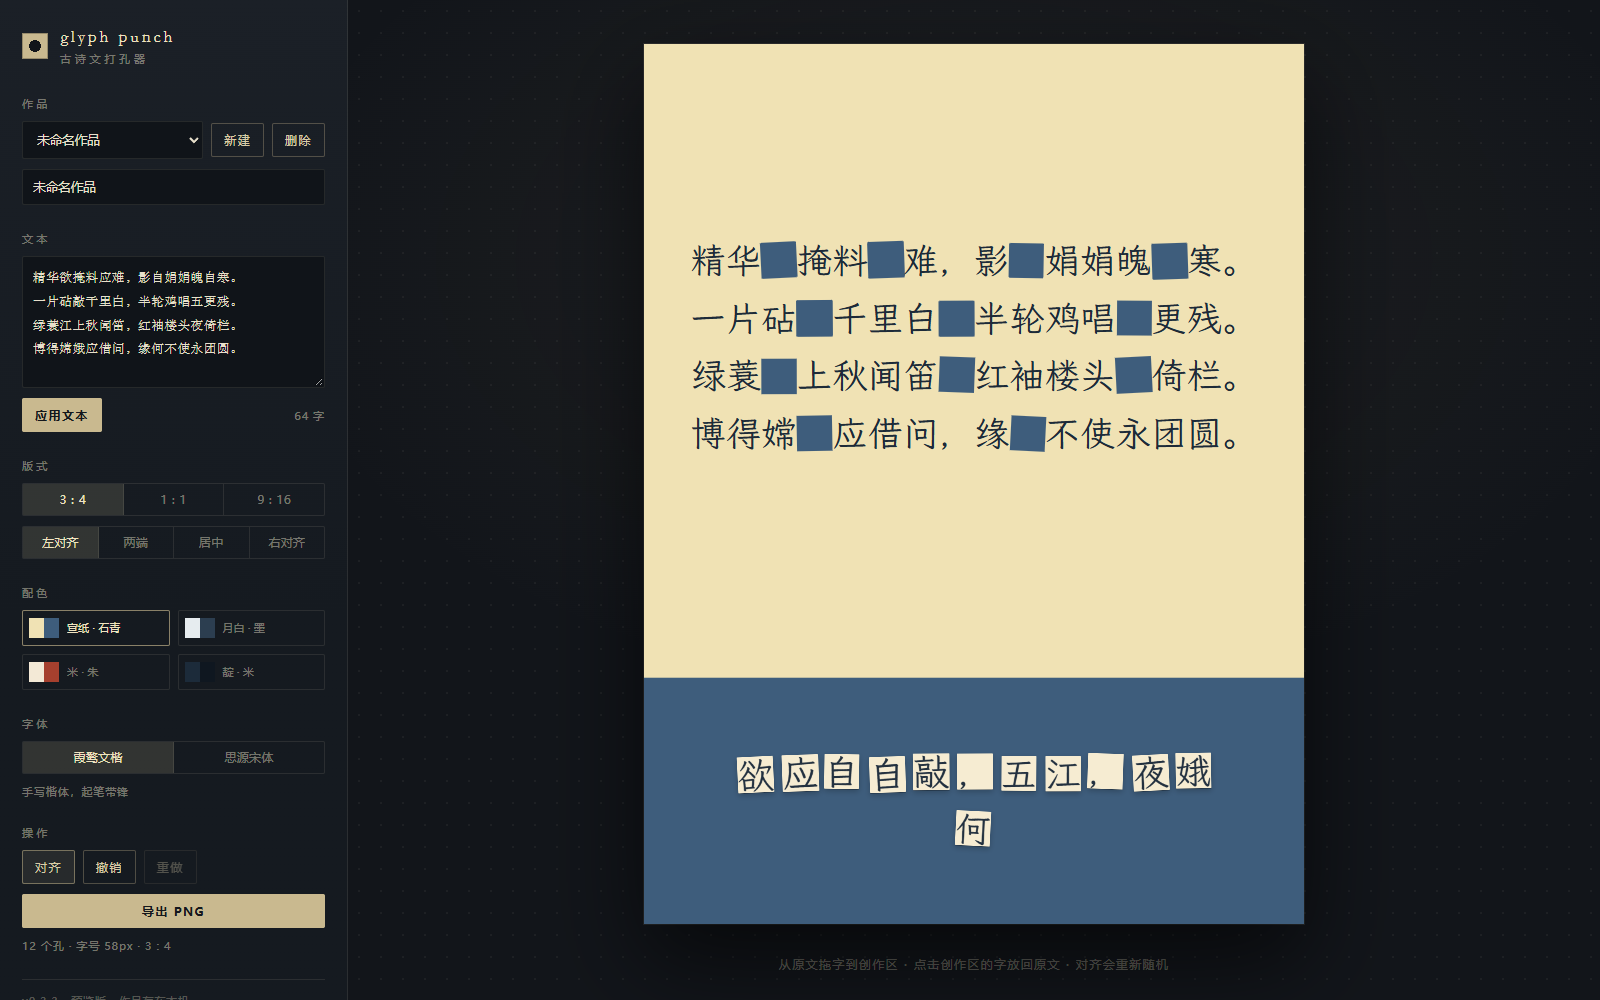
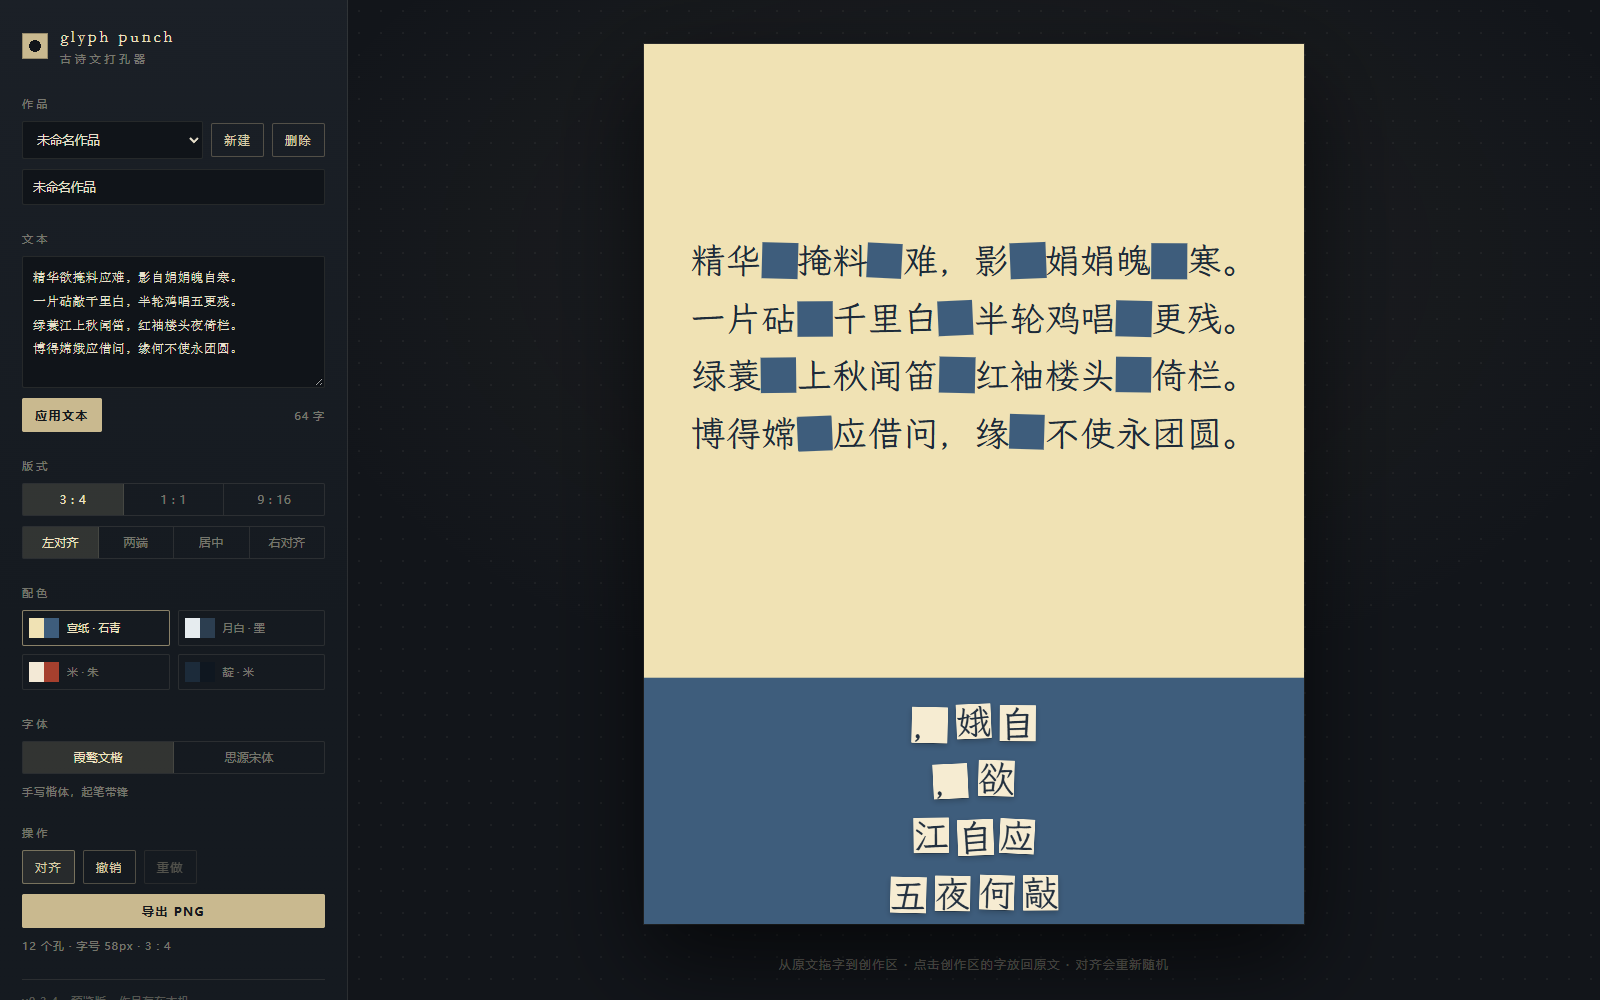
feat: 取字飞行与随机落点 (v0.3.4)
- 点击原文后纸片从洞口沿直线飞向创作区，落地才入场
- 落点改为创作区内随机，碰撞已有纸片则重掷（最多 40 次）
- 散落状态下对齐改为按阅读顺序打包成行，避免排成一列
- 测试覆盖飞行中途不出现、落地后出现、纸片不重叠
- 更新 PRD 与 README

Changed region(s): [[0.4375, 0.682, 0.7812, 0.93], [0.625, 0.403, 0.6562, 0.434], [0.625, 0.248, 0.6562, 0.279]]

diff --git a/src/App.tsx b/src/App.tsx
@@ -1,9 +1,9 @@
 import { useEffect, useMemo, useRef, useState } from 'react'
-import Artboard from './Artboard'
+import Artboard, { type IncomingFlight } from './Artboard'
 import { exportPng } from './exportPng'
 import { FONT_PACKS, fontPackOf } from './fonts'
-import { randomJitter } from './holes'
-import { alignTiles, computeLayout, flowSlot } from './layout'
+import { holeGeometry, randomJitter } from './holes'
+import { alignTiles, computeLayout, randomTileSlot } from './layout'
 import { initialStore, loadStore, saveStore, type Persisted } from './storage'
 import {
   ALIGN_MODES,
@@ -32,6 +32,8 @@ export default function App() {
   const [draft, setDraft] = useState(current.text)
   const [title, setTitle] = useState(current.title)
   const [busy, setBusy] = useState(false)
+  const [incoming, setIncoming] = useState<IncomingFlight | null>(null)
+  const incomingTimer = useRef<number | null>(null)
   const stageRef = useRef<HTMLDivElement>(null)
   const [scale, setScale] = useState(0.42)
 
@@ -45,6 +47,13 @@ export default function App() {
   useEffect(() => {
     saveStore({ works: state.works, currentId: state.currentId })
   }, [state.works, state.currentId])
+
+  useEffect(
+    () => () => {
+      if (incomingTimer.current !== null) window.clearTimeout(incomingTimer.current)
+    },
+    [],
+  )
 
   useEffect(() => {
     setDraft(current.text)
@@ -124,12 +133,35 @@ export default function App() {
     const size = board.layout.size
     const jitter = randomJitter()
     const tileSize = size * jitter.scale
-    const slot = flowSlot(current.tiles.length, size, board.artW, board.artH, board.compTop)
-    const centerX = slot.x + size / 2 + jitter.dx * size
-    const centerY = slot.y + size / 2 + jitter.dy * size
-    const x = Math.max(0, Math.min(board.artW - tileSize, centerX - tileSize / 2))
-    const y = Math.max(board.compTop, Math.min(board.artH - tileSize, centerY - tileSize / 2))
-    addTile(charId, x, y, jitter)
+    const slot = randomTileSlot(
+      current.tiles,
+      tileSize,
+      size,
+      board.artW,
+      board.artH,
+      board.compTop,
+    )
+    addTile(charId, slot.x, slot.y, jitter)
+
+    const cell = board.layout.cells.find((item) => item.id === charId)
+    const reduceMotion = window.matchMedia('(prefers-reduced-motion: reduce)').matches
+    if (!cell || reduceMotion) return
+
+    const hole = holeGeometry(jitter, cell)
+    if (incomingTimer.current !== null) window.clearTimeout(incomingTimer.current)
+    setIncoming({
+      charId,
+      fromX: hole.left,
+      fromY: hole.top,
+      toX: slot.x,
+      toY: slot.y,
+      rot: jitter.rot,
+      width: tileSize,
+    })
+    incomingTimer.current = window.setTimeout(() => {
+      incomingTimer.current = null
+      setIncoming(null)
+    }, 360)
   }
 
   const punchAt = (charId: number, centerX: number, centerY: number) => {
@@ -408,6 +440,7 @@ export default function App() {
               board={board}
               palette={palette}
               fontStack={fontPack.stack}
+              incoming={incoming}
               onPunch={punch}
               onPunchAt={punchAt}
               onMoveTile={moveTile}

diff --git a/src/layout.ts b/src/layout.ts
@@ -1,4 +1,4 @@
-import type { AlignMode, CharCell, RatioId, Work } from './types'
+import type { AlignMode, CharCell, RatioId, Tile, Work } from './types'
 import { RATIOS } from './types'
 
 export const PAD = 76
@@ -146,7 +146,58 @@ export function flowSlot(
   return { x, y }
 }
 
+/**
+ * 点击取字时的落点：在创作区里随机，碰到已有纸片就重掷。
+ * 尝试 40 次仍挤不下时退回顺序槽位，保证一定落得下。
+ */
+export function randomTileSlot(
+  tiles: Tile[],
+  tileSize: number,
+  size: number,
+  artW: number,
+  artH: number,
+  compTop: number,
+): { x: number; y: number } {
+  const minX = PAD
+  const maxX = artW - PAD
+  const minY = compTop + 26
+  const maxY = artH - 26
+  const gap = size * 0.16
+  const roomX = maxX - minX - tileSize
+  const roomY = maxY - minY - tileSize
+
+  if (roomX > 0 && roomY > 0) {
+    for (let attempt = 0; attempt < 40; attempt++) {
+      const x = minX + Math.random() * roomX
+      const y = minY + Math.random() * roomY
+      const collides = tiles.some((tile) => {
+        const other = size * tile.jitter.scale
+        return (
+          x < tile.x + other + gap &&
+          x + tileSize + gap > tile.x &&
+          y < tile.y + other + gap &&
+          y + tileSize + gap > tile.y
+        )
+      })
+      if (!collides) return { x, y }
+    }
+  }
+
+  return flowSlot(tiles.length, size, artW, artH, compTop)
+}
+
 const rand = (min: number, max: number) => min + Math.random() * (max - min)
+
+function packRows(tiles: Work['tiles'], size: number, maxW: number): Work['tiles'][] {
+  const gap = size * 0.16
+  const perRow = Math.max(1, Math.floor((maxW + gap) / (size + gap)))
+  const ordered = [...tiles].sort((a, b) => a.y - b.y || a.x - b.x)
+  const rows: Work['tiles'][] = []
+  for (let i = 0; i < ordered.length; i += perRow) {
+    rows.push(ordered.slice(i, i + perRow))
+  }
+  return rows
+}
 
 export function alignTiles(
   work: Work,
@@ -173,13 +224,19 @@ export function alignTiles(
 
   const maxW = artW - PAD * 2
   const naturalGap = size * 0.24
+
+  // 平均每行不到两张时，行意图不成立（散落或零星成对），
+  // 按阅读顺序打包成行，否则会排出一列竖向的“行”。
+  const scattered = rows.length > 1 && work.tiles.length / rows.length < 1.8
+  const finalRows = scattered ? packRows(work.tiles, size, maxW) : rows
+
   const out: Work['tiles'] = []
   const rowStep = size * 1.6
   const zoneH = artH - compTop
   const startY =
-    compTop + Math.max(28, (zoneH - rows.length * rowStep) / 2) + (rowStep - size) / 2
+    compTop + Math.max(28, (zoneH - finalRows.length * rowStep) / 2) + (rowStep - size) / 2
 
-  rows.forEach((row, rowIndex) => {
+  finalRows.forEach((row, rowIndex) => {
     const cells = [...row].sort((a, b) => a.x - b.x)
     const available = maxW - cells.length * size
     const gap = Math.max(0, Math.min(naturalGap, cells.length > 1 ? available / (cells.length - 1) : 0))

diff --git a/src/Artboard.tsx b/src/Artboard.tsx
@@ -82,10 +82,21 @@ interface Props {
   board: BoardLayout
   palette: Palette
   fontStack: string
+  incoming: IncomingFlight | null
   onPunch: (charId: number) => void
   onPunchAt: (charId: number, x: number, y: number) => void
   onMoveTile: (charId: number, x: number, y: number) => void
   onReturnTile: (charId: number) => void
+}
+
+export interface IncomingFlight {
+  charId: number
+  fromX: number
+  fromY: number
+  toX: number
+  toY: number
+  rot: number
+  width: number
 }
 
 interface TileDrag {
@@ -120,6 +131,7 @@ export default function Artboard({
   board,
   palette,
   fontStack,
+  incoming,
   onPunch,
   onPunchAt,
   onMoveTile,
@@ -347,6 +359,7 @@ export default function Artboard({
       />
       {work.tiles.map((tile) => {
         if (flight?.charId === tile.charId) return null
+        if (incoming?.charId === tile.charId) return null
         const isDragging = tileDrag?.charId === tile.charId
         const left = isDragging ? tile.x + tileDrag.dx : tile.x
         const top = isDragging ? tile.y + tileDrag.dy : tile.y
@@ -382,6 +395,29 @@ export default function Artboard({
       <div className={`dropzone${tileDrag?.overText ? ' is-active' : ''}`} style={{ height: compTop }}>
         {tileDrag?.overText ? <span className="drop-hint">松手放回原文</span> : null}
       </div>
+      {incoming ? (
+        <div
+          key={incoming.charId}
+          className="tile-punch"
+          style={
+            {
+              left: incoming.fromX,
+              top: incoming.fromY,
+              width: incoming.width,
+              height: incoming.width,
+              fontSize: incoming.width,
+              background: palette.chip,
+              color: palette.chipInk,
+              fontFamily: fontStack,
+              '--dx': `${incoming.toX - incoming.fromX}px`,
+              '--dy': `${incoming.toY - incoming.fromY}px`,
+              '--rot': `${incoming.rot}deg`,
+            } as React.CSSProperties
+          }
+        >
+          {chars[incoming.charId]}
+        </div>
+      ) : null}
       {flight ? (
         <div
           className="tile-fly"

diff --git a/src/styles.css b/src/styles.css
@@ -388,7 +388,7 @@ body {
   border-radius: 1px;
   box-shadow: 0 1px 0 rgba(0, 0, 0, 0.28), 0 4px 10px rgba(0, 0, 0, 0.22);
   cursor: grab;
-  animation: chip-in 0.3s cubic-bezier(0.22, 0.8, 0.3, 1.1);
+  animation: tile-settle 0.22s ease-out;
   transition:
     left 0.32s cubic-bezier(0.22, 0.8, 0.3, 1),
     top 0.32s cubic-bezier(0.22, 0.8, 0.3, 1),
@@ -404,20 +404,13 @@ body {
   box-shadow: 0 2px 0 rgba(0, 0, 0, 0.26), 0 10px 20px rgba(0, 0, 0, 0.28);
 }
 
-@keyframes chip-in {
-  0% {
-    opacity: 0;
-    translate: 0 -30px;
-    scale: 0.96;
+@keyframes tile-settle {
+  from {
+    opacity: 0.45;
+    scale: 1.06;
   }
-  60% {
+  to {
     opacity: 1;
-    translate: 0 0;
-    scale: 1.04;
-  }
-  100% {
-    opacity: 1;
-    translate: 0 0;
     scale: 1;
   }
 }
@@ -439,6 +432,28 @@ body {
   pointer-events: none;
   z-index: 1001;
   will-change: transform, opacity;
+}
+
+.tile-punch {
+  position: absolute;
+  display: flex;
+  align-items: center;
+  justify-content: center;
+  border-radius: 1px;
+  box-shadow: 0 14px 30px rgba(0, 0, 0, 0.34);
+  pointer-events: none;
+  z-index: 1002;
+  will-change: transform;
+  animation: chip-fly 0.34s cubic-bezier(0.25, 0.7, 0.2, 1) forwards;
+}
+
+@keyframes chip-fly {
+  from {
+    transform: translate(0, 0) rotate(var(--rot));
+  }
+  to {
+    transform: translate(var(--dx), var(--dy)) rotate(var(--rot));
+  }
 }
 
 .dropzone {
@@ -492,6 +507,10 @@ body {
   }
 
   .tile-fly {
+    display: none;
+  }
+
+  .tile-punch {
     display: none;
   }
 }

diff --git a/docs/PRD.md b/docs/PRD.md
@@ -49,7 +49,7 @@
 | 5 | 文本来源 | 用户粘贴，保留所有换行 |
 | 6 | 视觉 | 双色撞色，预设 + 自定义；背景图后续 |
 | 7 | 创作区 | 自由摆位，「对齐」是显式按钮 |
-| 8 | 对齐语义 | y 聚类成行 → 吸基线 → 行内按 x 均分 → 加随机偏移 |
+| 8 | 对齐语义 | y 聚类成行 → 吸基线 → 行内按 x 均分 → 加随机偏移；平均每行不足两张时改为按阅读顺序打包成行 |
 | 9 | 随机偏移 | 每次对齐重新随机，不持久化种子 |
 | 10 | 画板 | 3:4 / 1:1 / 9:16 预设，坐标按 1080 逻辑宽归一化 |
 | 11 | 原文排版 | 字号自动适配填满区域；默认左对齐，另提供两端对齐/居中/右对齐 |
@@ -108,7 +108,7 @@ interface Tile {
 ## 7. 交互
 
 - 从原文拖字到创作区：松手处就是落点，纸片带随机角度落下。
-- 点击原文中的字（不拖动）：直接打孔，纸片自动落到创作区，位置带随机偏移。
+- 点击原文中的字（不拖动）：从洞口飞出一张纸片，落到创作区的随机位置；随机落点若与已有纸片重叠会重掷（最多 40 次，仍失败则退回顺序槽位）。
 - 点击创作区的纸片：弹回原文，填回原来的洞。
 - 拖动纸片：自由移动，落点限制在创作区内；拖进原文区松手也会回填。
 - 洞的形状带手作抖动：每张孔有独立的旋转（±3°）、偏移、尺寸与圆角，相邻孔可以互相压边，形成毛边而不是机器切口。抖动由作品 ID 定种子，刷新与导出结果一致。
@@ -126,7 +126,7 @@ interface Tile {
 - 双色：纸色 + 撞色；原文区纸底墨字、洞为撞色；创作区撞色底、纸片为纸色。
 - 字体：霞鹜文楷为默认（手写楷，起笔带锋），思源宋体为备选；两套均为自托管 woff2 子集，切换即时生效。
 - 唯一致敬点：打孔瞬间纸片掉落。其余动效克制。
-- 动效只回应动作，不做装饰性循环：落纸回弹（300ms）、回填飞行（260ms）、对齐与换比例滑动（320ms）、悬停微抬（160ms）。
+- 动效只回应动作，不做装饰性循环：点击取字的洞口飞出（340ms）、落纸回弹（300ms）、回填飞行（260ms）、对齐与换比例滑动（320ms）、悬停微抬（160ms）。
 - 全部动效在 `prefers-reduced-motion: reduce` 下关闭，回填直接生效。
 - 不依赖用户系统字体，保证不同机器导出观感一致。
 

diff --git a/README.md b/README.md
@@ -13,13 +13,14 @@
 ## 现在能做什么
 
 - 粘贴文本，保留换行；字号自动适配，保证诗句不折行
-- 单字点击打孔（自动落位）；或从原文直接把字拖到创作区，松手位置就是落点
+- 单字点击打孔：纸片从洞口飞向创作区的随机落点，落点会避开已有纸片
+- 或从原文直接把字拖到创作区，松手位置就是落点
 - 每次取字都重新掷一次抖动（角度、偏移、尺寸），洞与纸片共用这一次的结果
 - 纸片上的字与原文同字号，洞和纸片尺寸一致，抠下来的就是掉下去的那一块
 - 点击创作区的纸片即可弹回原文，也可以拖回原文区回填
 - 动效只回应动作：纸片落下有沉淀回弹、回填时沿直线飞回原洞、对齐与换比例时滑动归位、悬停微抬
 - 尊重 `prefers-reduced-motion`，系统开启减弱动态时全部动效关闭
-- 一键对齐：行识别 → 吸基线 → 行内均分 → 附加随机位移与旋转（每次重摇）
+- 一键对齐：行识别 → 吸基线 → 行内均分 → 附加随机位移；纸片散落时改为按阅读顺序打包成行
 - 画板 3:4 / 1:1 / 9:16，切换时纸片按比例重映射
 - 四套双色主题；四种文本对齐
 - 两套字体包：霞鹜文楷（默认）/ 思源宋体，可随时切换
